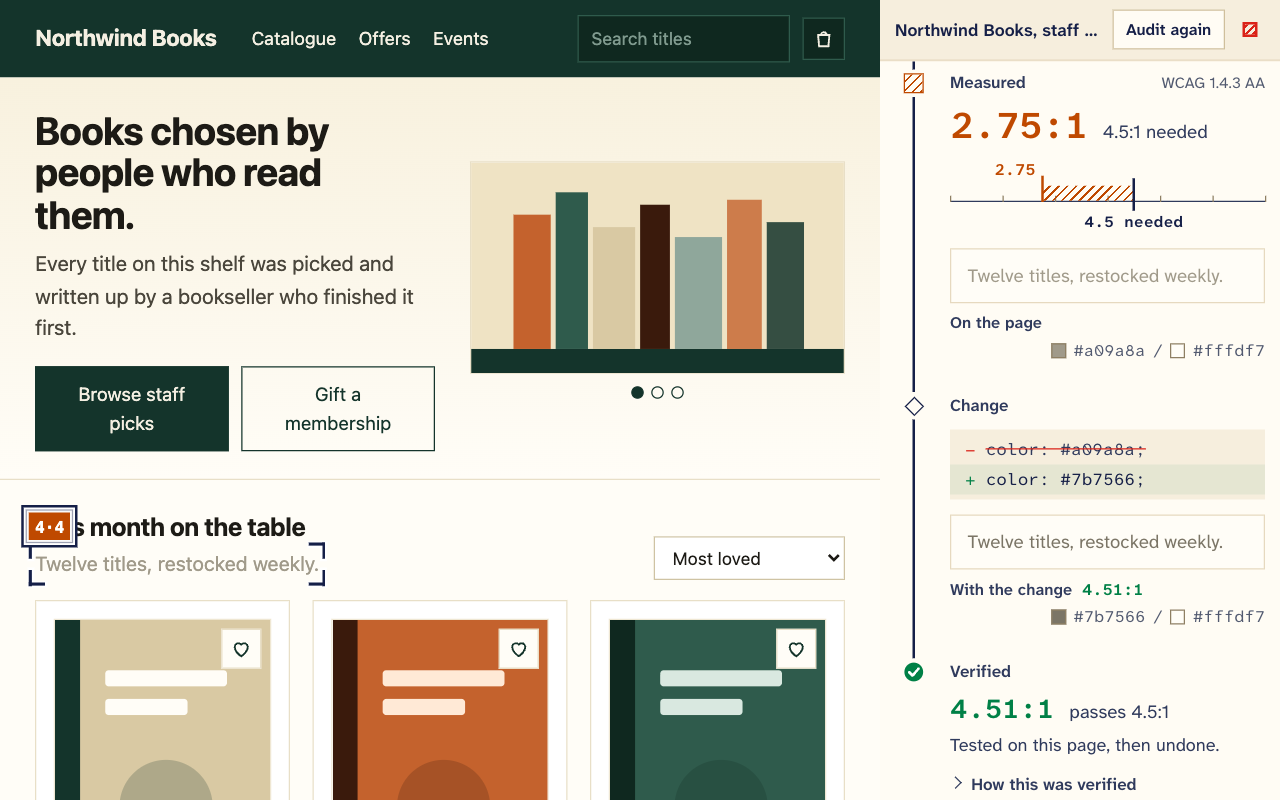
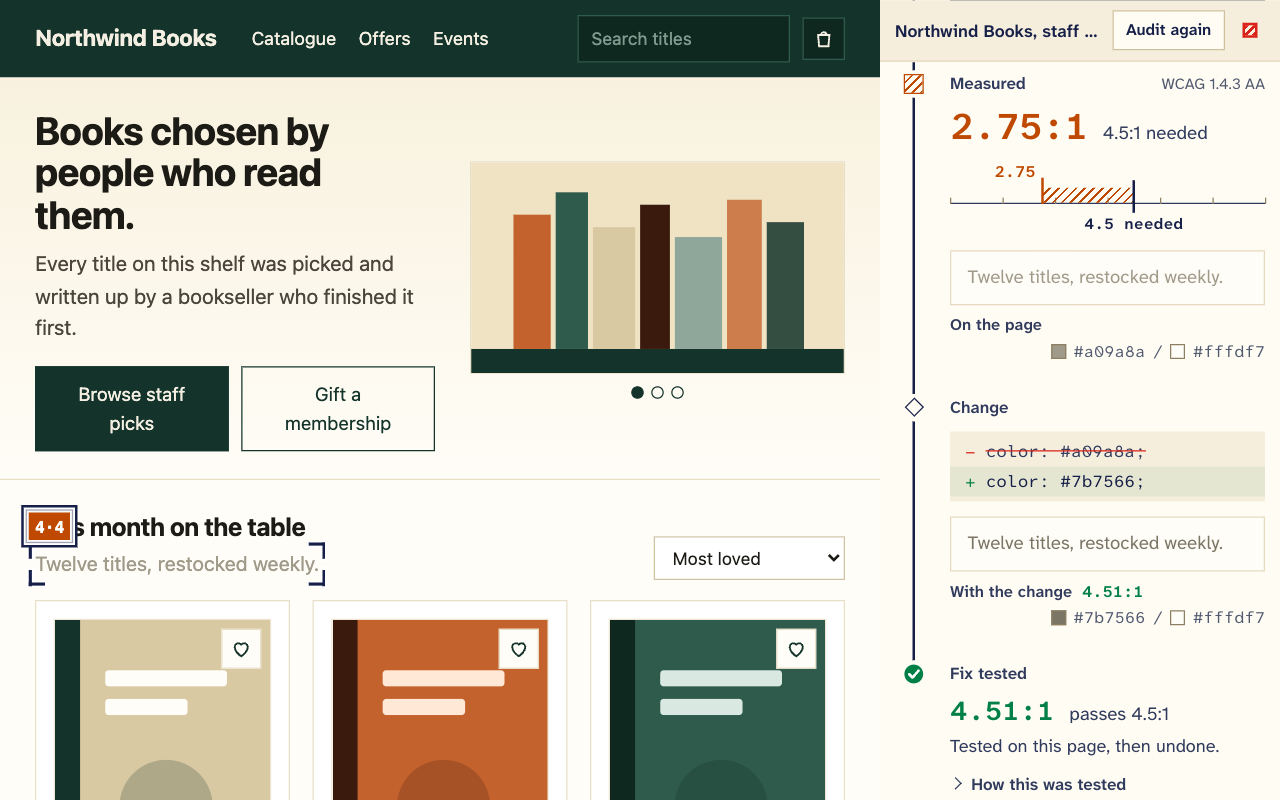
chore(extension): release 1.5.0
Bumps the extension to 1.5.0. It ships the keyboard check that no longer
lists the controls it never got to, the verdict's note that the keyboard
is not included until it is checked, the panel acting only on the
audited tab while it is in front, every finding to fix accounted for
under the verdict, the hatch kept on the current stop, the notices'
live regions kept in place, the language menu's arrow, and the review of
every interface text in both languages, with axe-core's messages in
Portuguese where its own translation leaves them in English.

STORE-LISTING.md gets the new version and a note of what changed. The
Portuguese store description and summary follow the new vocabulary:
"etapa" for a stop, "ordem de tabulação" for the focus path, and manual
review instead of "uma pessoa". The three store screenshots are
regenerated.

diff --git a/extension/STORE-LISTING.md b/extension/STORE-LISTING.md
@@ -6,7 +6,7 @@ submitted automatically.
 ## Basics
 
 - **Item name:** AccessCheck
-- **Version:** 1.4.0
+- **Version:** 1.5.0
 - **Category:** Developer Tools
 - **Default language:** English (United States)
 - **Visibility:** Public
@@ -149,6 +149,30 @@ Certifications to accept, all of which the code supports:
 > Clicking the toolbar icon runs the whole audit, including the rules, the
 > extension's own checks and the fix verification, without attaching the
 > debugger at all.
+
+## What changed in 1.5.0
+
+- Until the keyboard is checked, the verdict says the keyboard is not included
+  yet, so its counts can be compared with the web report's.
+- A keyboard check that stops early no longer lists the controls it never got
+  to as findings. The coverage line still says how many were left. A control is
+  reported as unreachable only after a full round from the first control.
+- Locate on page and Check keyboard only act on the audited tab while it is in
+  front. With another tab in front, the panel says the report is for another
+  tab instead of drawing or walking on the hidden one.
+- Every finding to fix is accounted for under the verdict: findings about the
+  whole document, such as bypass or meta-refresh, count as applying to the
+  whole page, and findings inside a shadow root get their own line.
+- The current stop in the focus path keeps its hatched ring when it meets a
+  finding.
+- The notices next to Locate on page and under the focus path stay in the page
+  while empty, so screen readers announce them when their text arrives.
+- The language menu's arrow sits clear of the border.
+- Every interface text was reviewed in both languages. English says finding,
+  mark, check and "fix tested" throughout. Portuguese describes what happened
+  instead of how the checks work, calls the tab order's stops "etapas", and no
+  longer shows axe-core messages in English where axe's own Portuguese
+  translation leaves them out.
 
 ## What changed in 1.4.0
 
